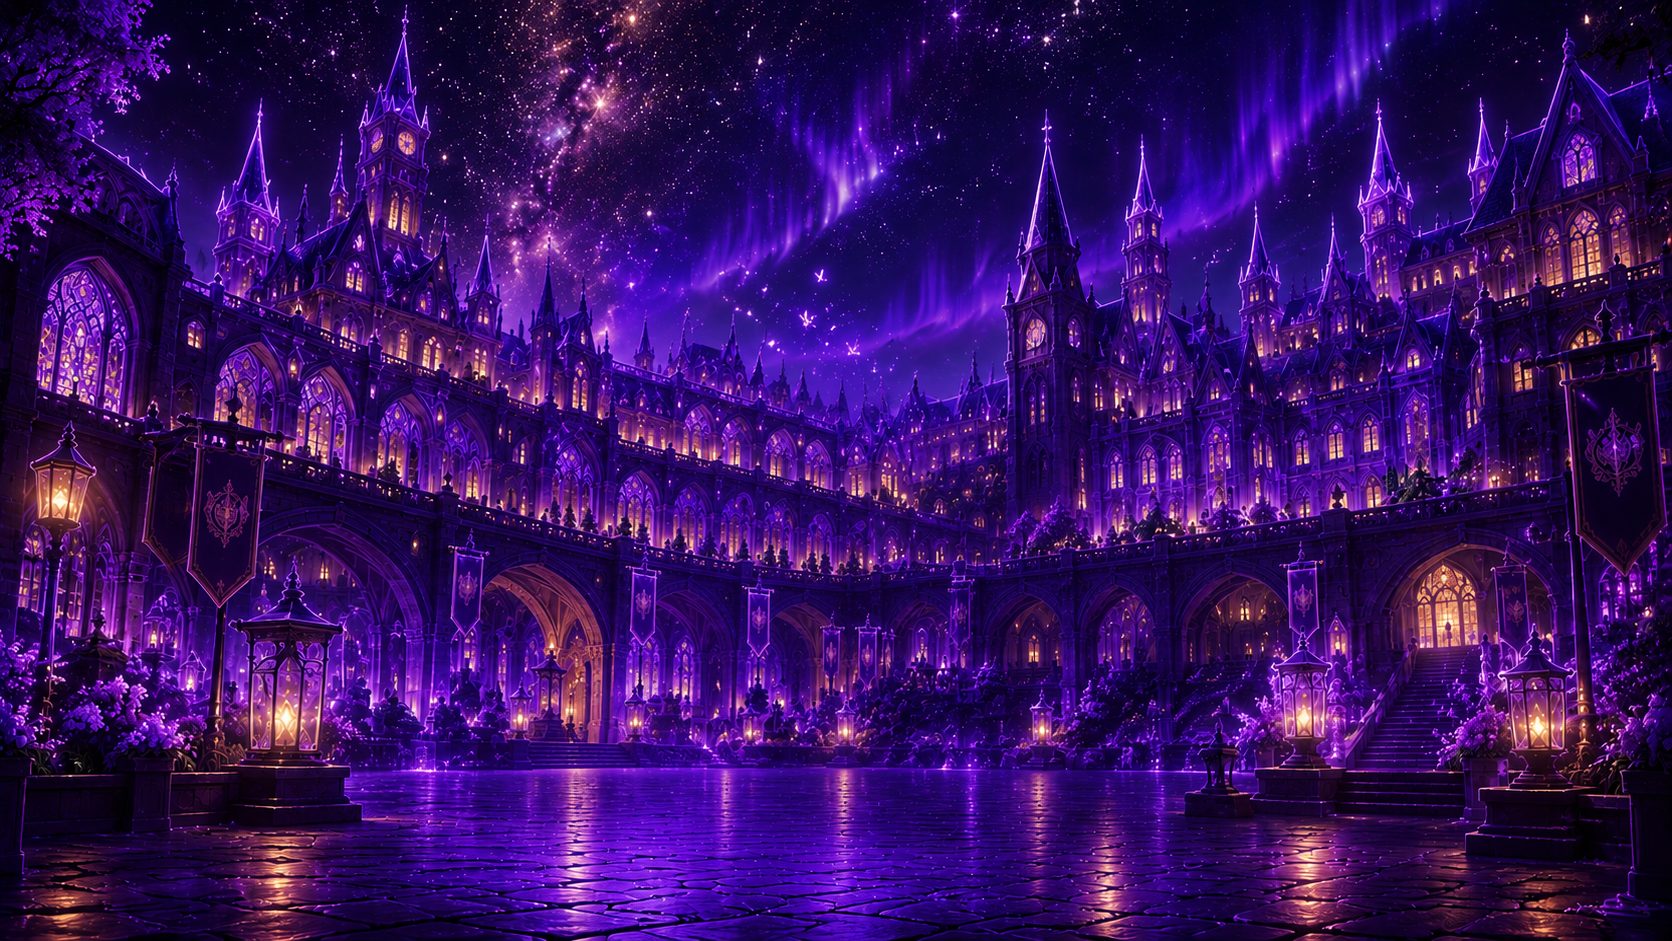
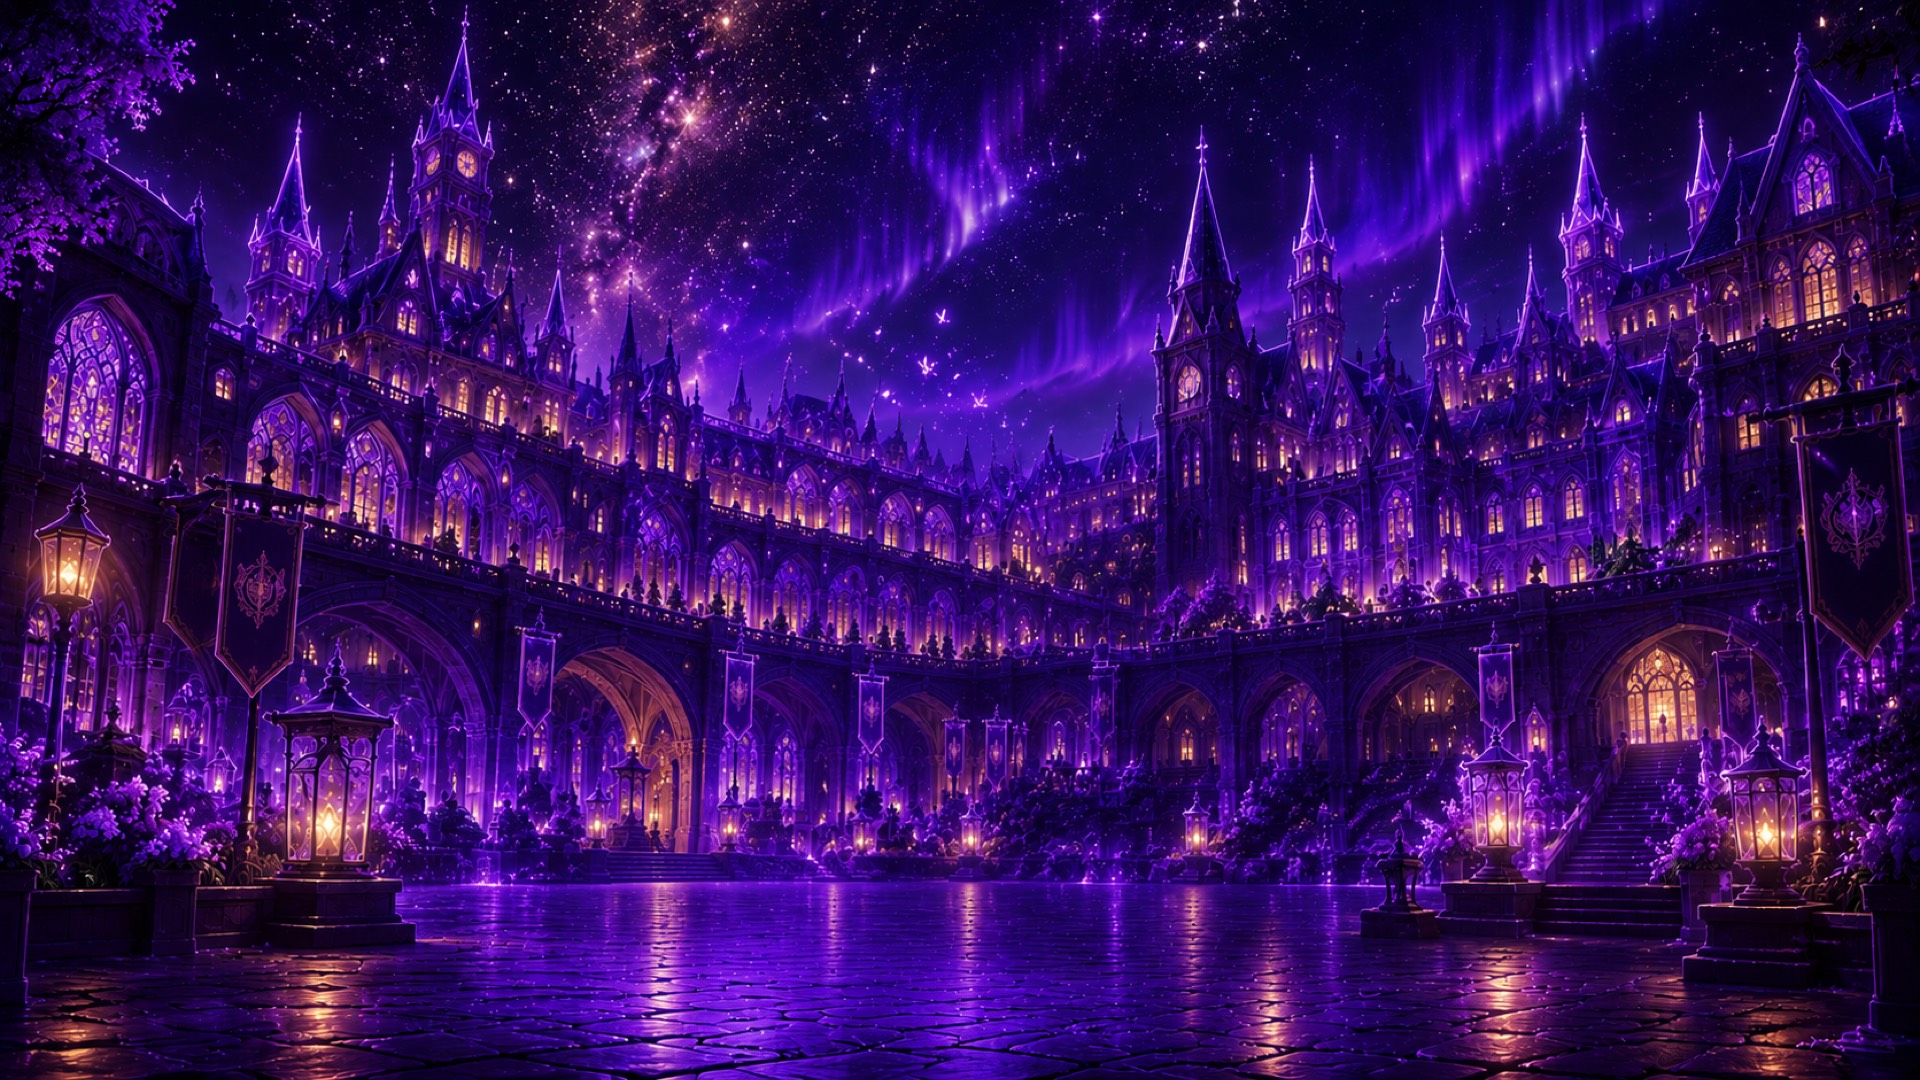
Compress modal bg image 2.7MB→620KB and restore immediate modal display
- Compress modal-bg.jpg with sips (quality 70, max 1920px wide)
- Remove opacity:0 / .ready pattern — modal shows instantly
- Add background-color fallback #0a0514 while image loads

diff --git a/index.html b/index.html
@@ -250,12 +250,12 @@
     #perf-modal {
       position: fixed; inset: 0; z-index: 999999;
       display: flex; align-items: center; justify-content: center;
-      opacity: 0; transition: opacity 0.6s ease; overflow: hidden;
+      transition: opacity 0.6s ease; overflow: hidden;
     }
-    #perf-modal.ready { opacity: 1; }
     #perf-modal.hide { opacity: 0; pointer-events: none; }
     #perf-modal-bg {
       position: absolute; inset: 0;
+      background-color: #0a0514;
       background-image: url('modal-bg.jpg');
       background-size: cover; background-position: center top;
     }
@@ -638,10 +638,6 @@ if (window.matchMedia('(hover: hover)').matches) {
 ══════════════════════════════════════════ */
 const perfModal = document.getElementById('perf-modal');
 
-const modalBgImg = new Image();
-modalBgImg.src = 'modal-bg.jpg';
-modalBgImg.onload = () => perfModal.classList.add('ready');
-modalBgImg.onerror = () => perfModal.classList.add('ready');
 
 function hidePerfModal(cb) {
   perfModal.classList.add('hide');